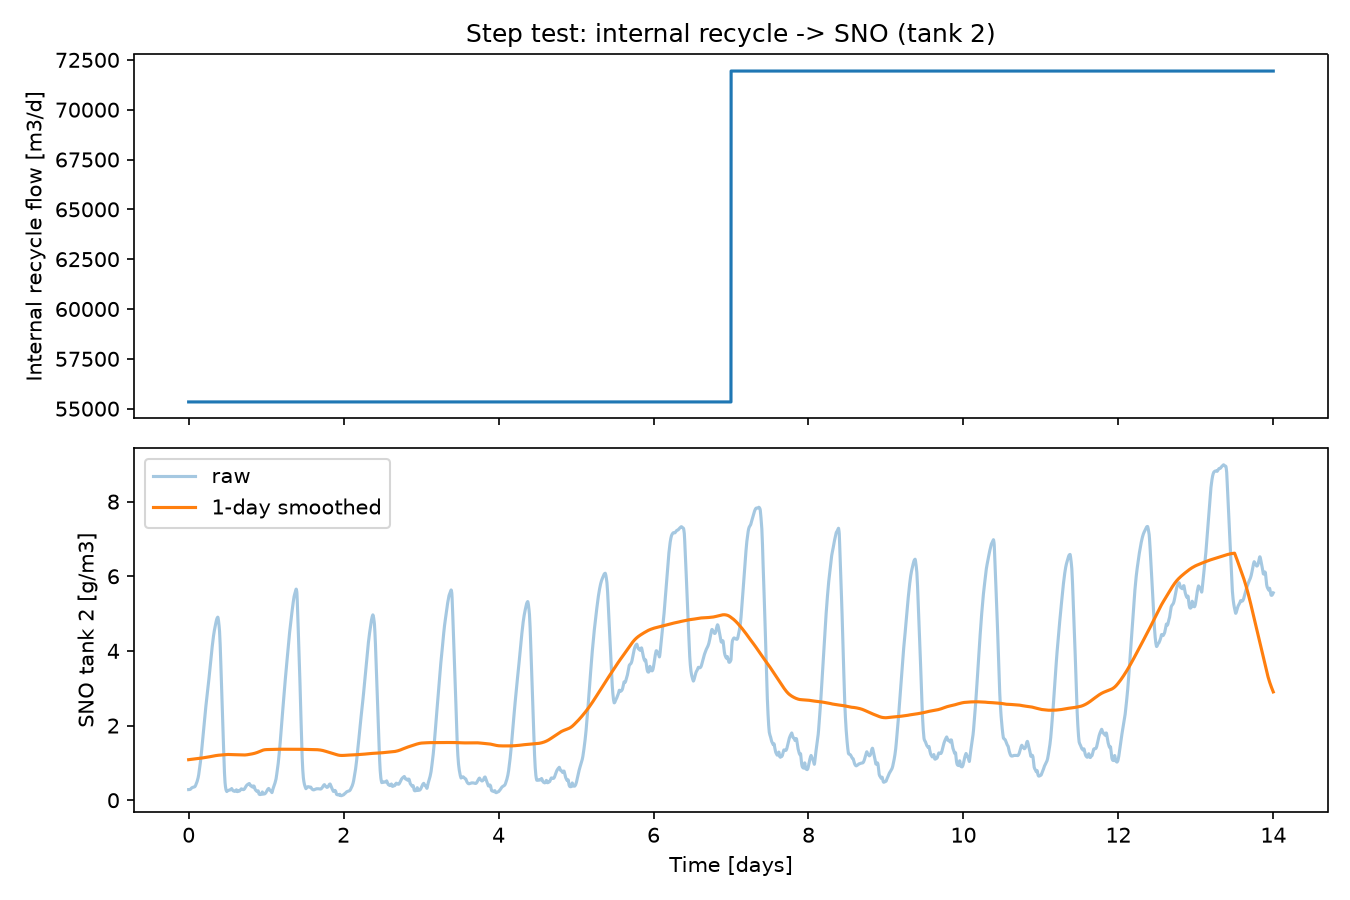
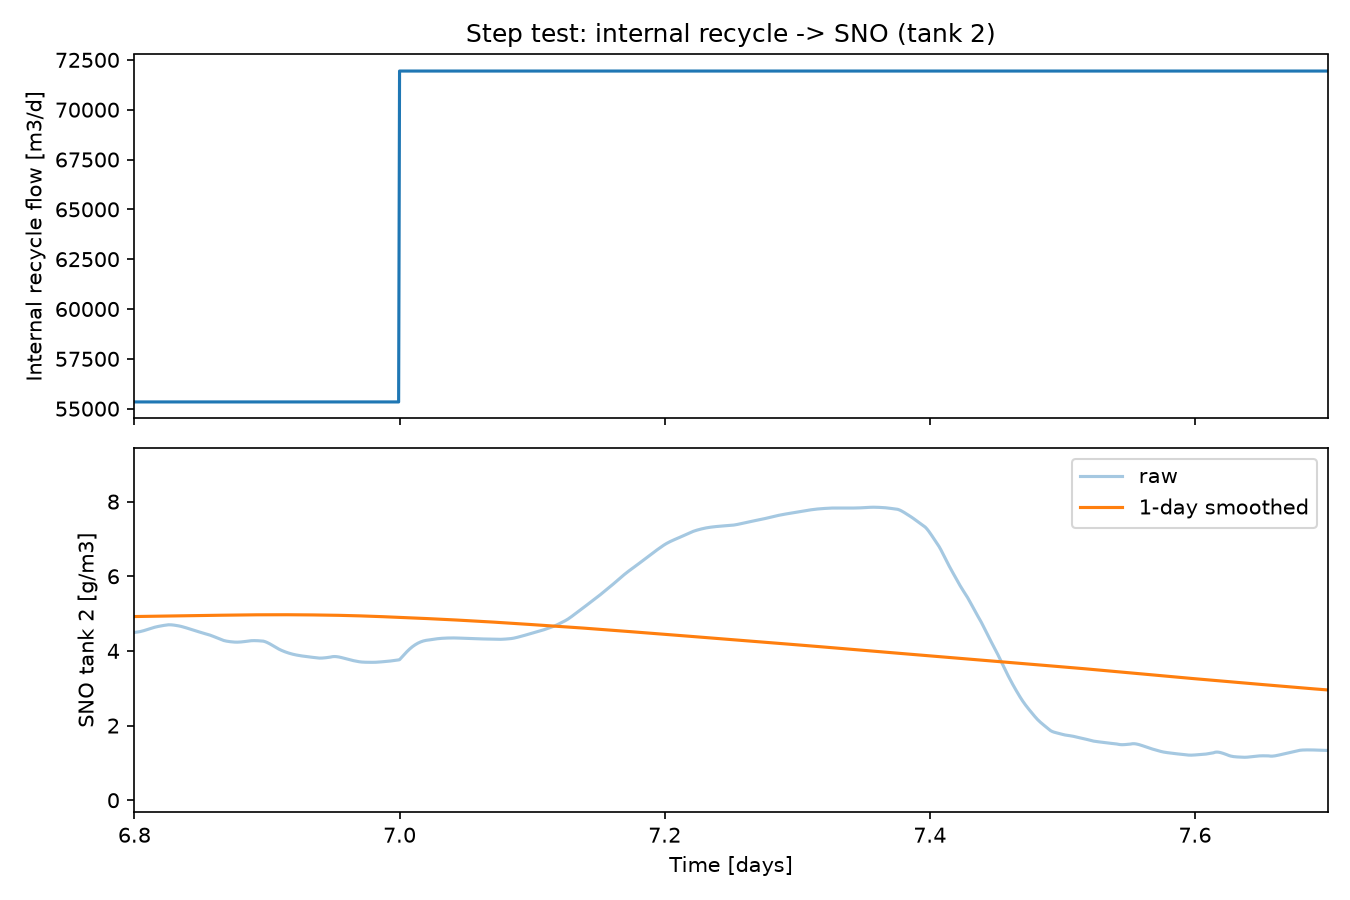
Step 2: zoomed step-test plots to single peak

diff --git a/step2_steptests.py b/step2_steptests.py
@@ -115,6 +115,7 @@ def run_kla_step_test():
 
     # plot
     fig, axes = plt.subplots(2, 1, figsize=(9, 6), sharex=True)
+    axes[0].set_xlim(STEP_TIME - 0.2, STEP_TIME + 0.7)  # zoom in on just the one step transient
     axes[0].plot(sim_t, kla_signal)
     axes[0].set_ylabel('kLa tank 5 [1/d]')
     axes[0].set_title('Step test: kLa (tank 5) -> SO (tank 5)')
@@ -159,6 +160,7 @@ def run_recycle_step_test():
         sno_response[i] = bsm1.y_out2_all[i, SNO_IDX] if i < len(bsm1.y_out2_all) else bsm1.y_out2[SNO_IDX]
 
     fig, axes = plt.subplots(2, 1, figsize=(9, 6), sharex=True)
+    axes[0].set_xlim(STEP_TIME - 0.2, STEP_TIME + 0.7)  # zoom in on just the one step transient
     axes[0].plot(sim_t, qintr_signal)
     axes[0].set_ylabel('Internal recycle flow [m3/d]')
     axes[0].set_title('Step test: internal recycle -> SNO (tank 2)')
